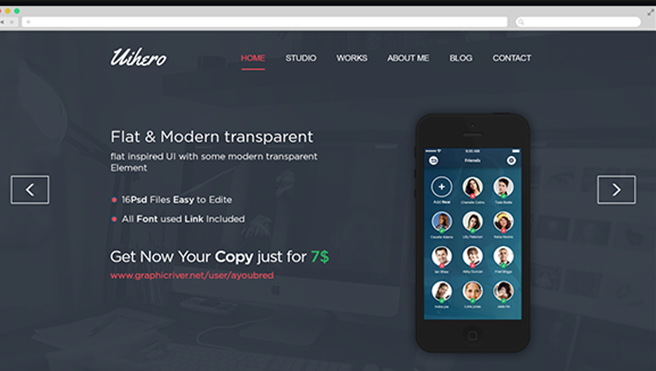
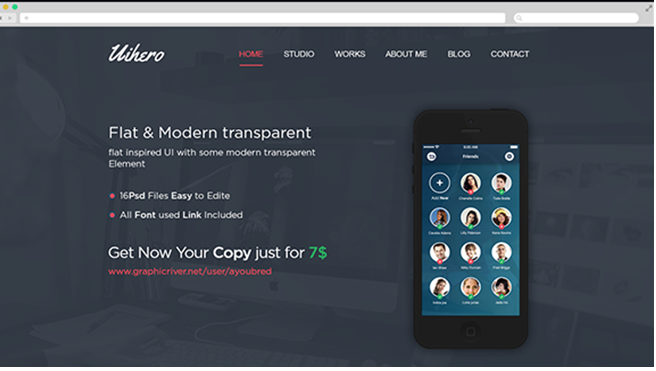
second commit

diff --git a/css/main.css b/css/main.css
@@ -220,17 +220,18 @@ p {
 
                     /*редагування стрілочок*/
 .slick-prev3 {                 /*ліва*/
-padding-top: 152px;
-position: absolute;
-z-index: 999999999999999999999999999;
-
+  margin-top: 180px;
+  margin-left: 10px;
+  position: absolute;
+  z-index: 100;
+  border: 2px solid #ffffff;
 }
 
 .slick-next3 {                  /*права*/
-padding-left: 485px;
-margin-bottom: 400px;
-position: absolute;
-z-index: 999999999999999999999999999999999;
+  margin-left: 530px;
+  position: relative;
+  bottom: 377px;
+  border: 2px solid #ffffff;
 }
 
 
@@ -891,7 +892,7 @@ hr {
 
 .textLogo {
   height: 50%;
-  padding-top: 100px;
+  padding-top: 50px;
   padding-left: 425px;
 }
 
@@ -901,16 +902,17 @@ hr {
   color: #ffffff;
   float: right;
   padding-top: 1px;
-  padding-right: 510px;
+  padding-right: 710px;
 }
 
 .Logo9 {
-  padding-left: 70px;
+  padding-left: 320px;
 }
 
 .text92 {
-  font-family: GothamBook;
-  font-weight: lighter;
+  padding-top: 50px;
+  font-family: CaeciliaLTStd;
+  font-weight: 100;
   font-size: 26px;
   color: #ffffff;
   text-align: center;
@@ -923,15 +925,17 @@ hr {
 
                       /*редагування стрілочок*/
 .slick-prev2 {                 /*ліва*/
-  float: left;
   padding-top: 400px;
-
+  position: absolute;
+  right: 1600px;
+  z-index: 100;
 }
 
 .slick-next2 {                  /*права*/
-  float: right;
-  padding-bottom: 500px;
-
+  overflow:hidden;
+  padding-left: 1400px;
+  position: relative;
+  bottom: 240px;
 }
 
 
@@ -1019,34 +1023,42 @@ hr {
   margin: 0 auto;
 }
 
-.clearfix:after {
-    content: "";
-    display: table;
-    clear: both;
-}
+
 
 .text111 {
   font-family: CaeciliaLTStd;
-  font-weight: bold;
+  font-weight: 100;
   font-size: 29.5px;
   color: #dad9d9;
-  display: inline-block;
+  position: relative;
+  padding-left: 200px;
+  bottom: 60px;
+
 }
 
 .iconsEnd {
   padding-top: 60px;
 }
 
+.textLeft11 {
+  height: 165px;
+
+}
+
 .textRight {
-  float: right;
+  position: relative;
+  bottom: 170px;
+  padding-left: 1050px;
 }
 
 .text112 {
   font-family: CaeciliaLTStd;
+  font-weight: 100;
   font-size: 24.5px;
   color: #dad9d9;
-  padding-left: 10px;
-  display: inline-block;
+  position: relative;
+  padding-left: 60px;
+  bottom: 55px;
 }
 
 

diff --git a/js/main.js b/js/main.js
@@ -28,8 +28,8 @@ jQuery(document).ready(function() {
 jQuery(document).ready(function() {
 
   jQuery(".sl3").slick({
-        prevArrow: '<img class="slick-prev3" src="img/shape-left.png">',
-        nextArrow: '<img class="slick-next3" src="img/shape-right.png">',
+        prevArrow: '<img class="slick-prev3" src="img/SnapeLeftSmall.png">',
+        nextArrow: '<img class="slick-next3" src="img/SnapeRightSmall.png">',
 
 
 

diff --git a/index.html b/index.html
@@ -372,7 +372,7 @@
 
 
     <footer id="bg3">
-      <div class="container11 clearfix">
+      <div class="container11">
         <div class="textLeft11">
           <img class="iconsEnd" src="img/iconEnd1.png" alt="icon1">
           <img class="iconsEnd" src="img/iconEnd2.png" alt="icon2">
